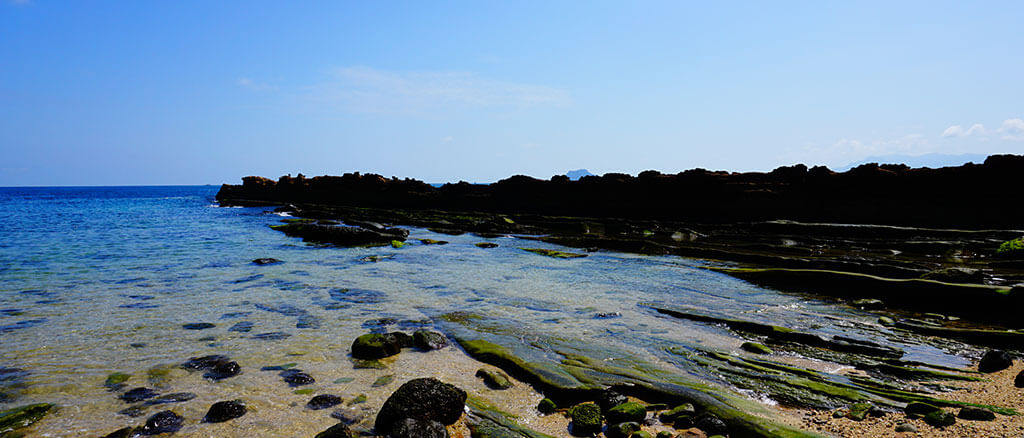
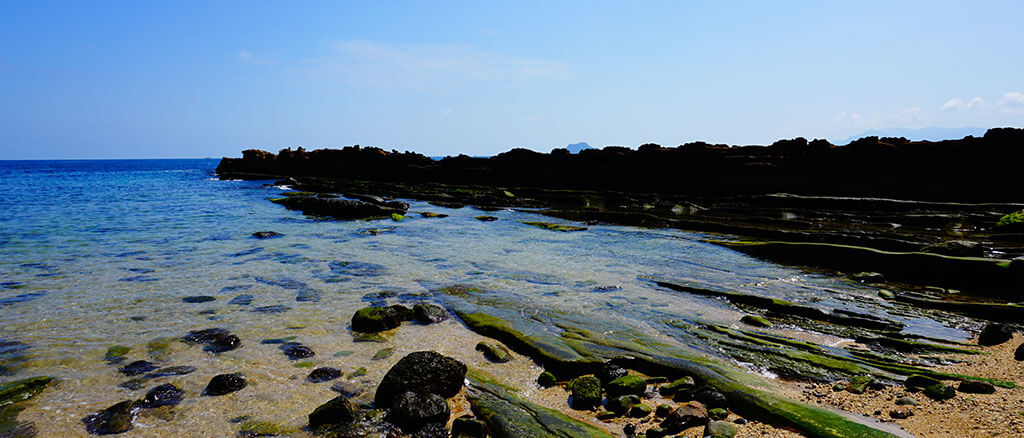
add `karma`

diff --git a/source/_posts/2015-11-16-karma.md b/source/_posts/2015-11-16-karma.md
@@ -1,10 +1,13 @@
-title: karma
-banner: gallery/TODO.jpg
+title: 使用 Karma 在真实浏览器上测试
+banner: gallery/taiwan/DSC03221.jpg
 tags:
-- test
-- Karma
-- webpack
+  - test
+  - Karma
+  - webpack
+  - ci
+date: 2015-11-16 11:57:26
 ---
+
 
 ## 安装
 
@@ -208,11 +211,90 @@ npm i karma karma-coverage --save-dev
 
     reporters: ['progress', 'coverage'],
     coverageReporter: {
+      type : 'html',
+      dir : 'coverage/'
+    },
+```
+
+再次运行 `karma start --single-run` 即可在 `coverage` 文件夹中看到覆盖率报告。但我们可以看到报告里的覆盖率很低，因为 webpack 打包好后的文件包含了很多我们不需要检查的内容（webpack，test 等），于是我们需要 [istanbul-instrumenter-loader](https://www.npmjs.com/package/istanbul-instrumenter-loader)：
+
+```sh
+npm i istanbul-instrumenter-loader --save-dev
+```
+
+再修改一下 `karma.conf.js`：
+
+```js
+    preprocessors: {
+      'test/index.js': ['webpack', 'babel'] // 这里不需要说明 coverage
+    },
+
+    reporters: ['progress', 'coverage'],
+    coverageReporter: {
+      type : 'html',
+      dir : 'coverage/'
+    },
+    // 添加以下部分
+    webpack: {
+      module: {
+        postLoaders: [{
+          test: /index\.js$/, // 源文件
+          exclude: /(test|node_modules|bower_components)\//, // 排除的文件
+          loader: 'istanbul-instrumenter'
+        }]
+      }
+    },
+```
+
+再次运行 `karma start --single-run` 就能看到报告里只剩下我们的 `index.js` 了。
+
+
+### Travis CI & COVERALLS
+
+[Travis CI](https://travis-ci.org/) 提供了一个 [Firefox 的运行环境](http://docs.travis-ci.com/user/firefox/)，于是我们要配置一下 `.travis.yml`：
+
+```yml
+language: node_js
+node_js:
+  - "4.2"
+before_script:
+  - export DISPLAY=:99.0
+  - sh -e /etc/init.d/xvfb start
+```
+
+同时我们将 coverage 报告类型改为 lcov：
+
+```js
+    coverageReporter: {
       type : 'lcov',
       dir : 'coverage/'
     },
 ```
 
-再次运行 `karma start --single-run` 即可在 `coverage` 文件夹中看到覆盖率报告。
+方便我们上传到 [COVERALLS](https://coveralls.io/)：
 
+```sh
+npm i coveralls --save-dev
+```
 
+`package.json` 也要加入 test 脚本
+
+```json
+{
+  "name": "resize-image",
+  "main": "index.js",
+  "scripts": {
+    "test": "./node_modules/karma/bin/karma start --browsers Firefox --single-run && find coverage -name lcov.info -print0 | xargs -0 cat | ./node_modules/coveralls/bin/coveralls.js && rm -rf ./coverage"
+  }
+}
+```
+
+提交代码，虽然 [Travis CI](https://travis-ci.org/) 上的输出提示是：
+
+```
+Firefox 31.0.0 (Linux 0.0.0): Executed 0 of 1 SUCCESS (0 secs / 0 secs)
+ SUCCESS (0 secs / 0.026 secs)
+ SUCCESS (0.052 secs / 0.026 secs)
+```
+
+但实际上已经成功了，[COVERALLS](https://coveralls.io/) 上已经能看到覆盖率报告！
